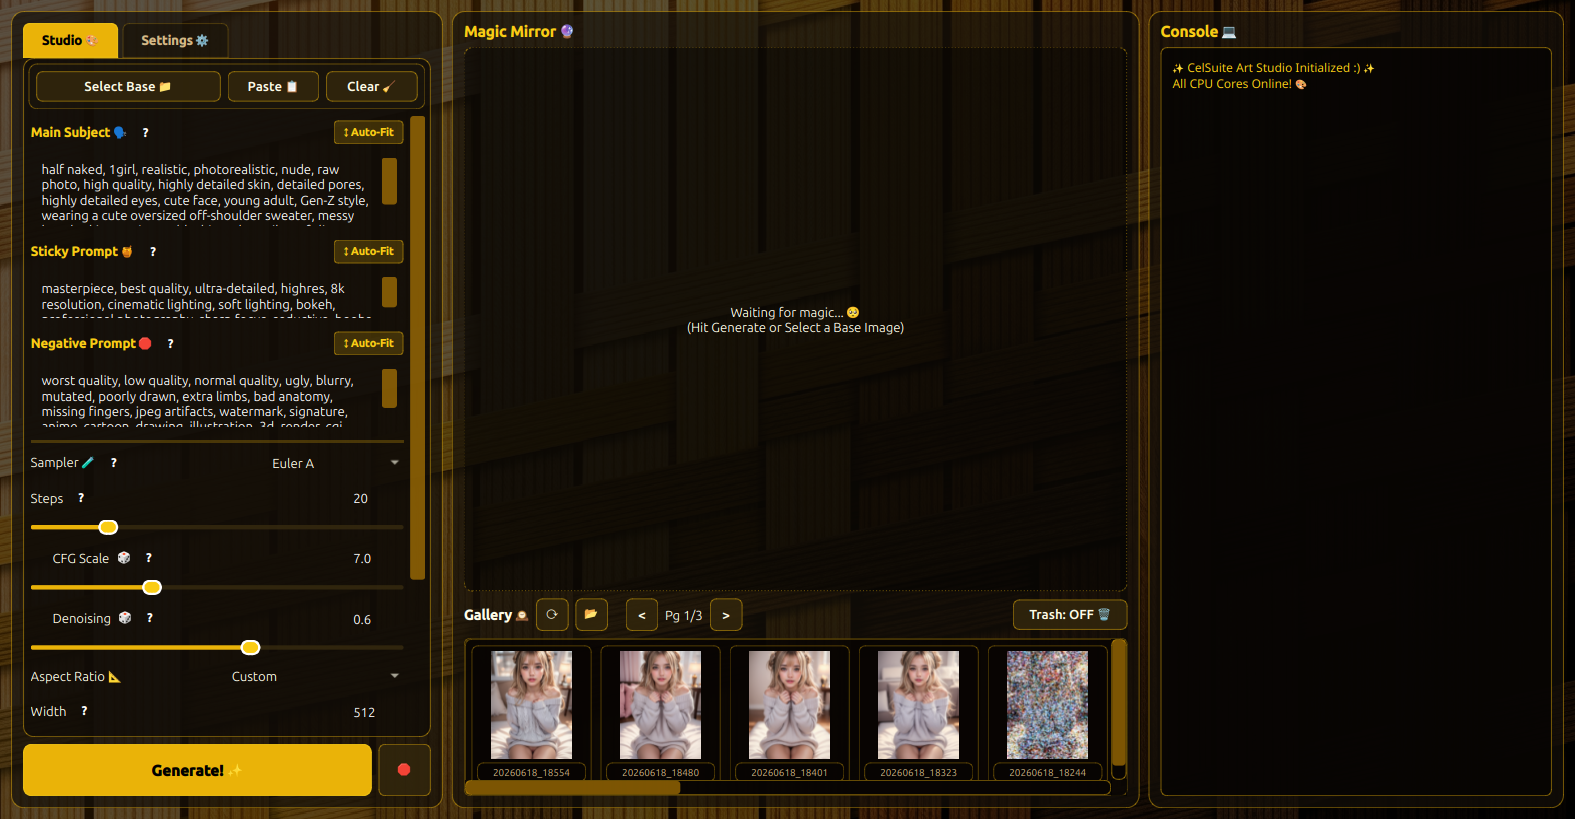
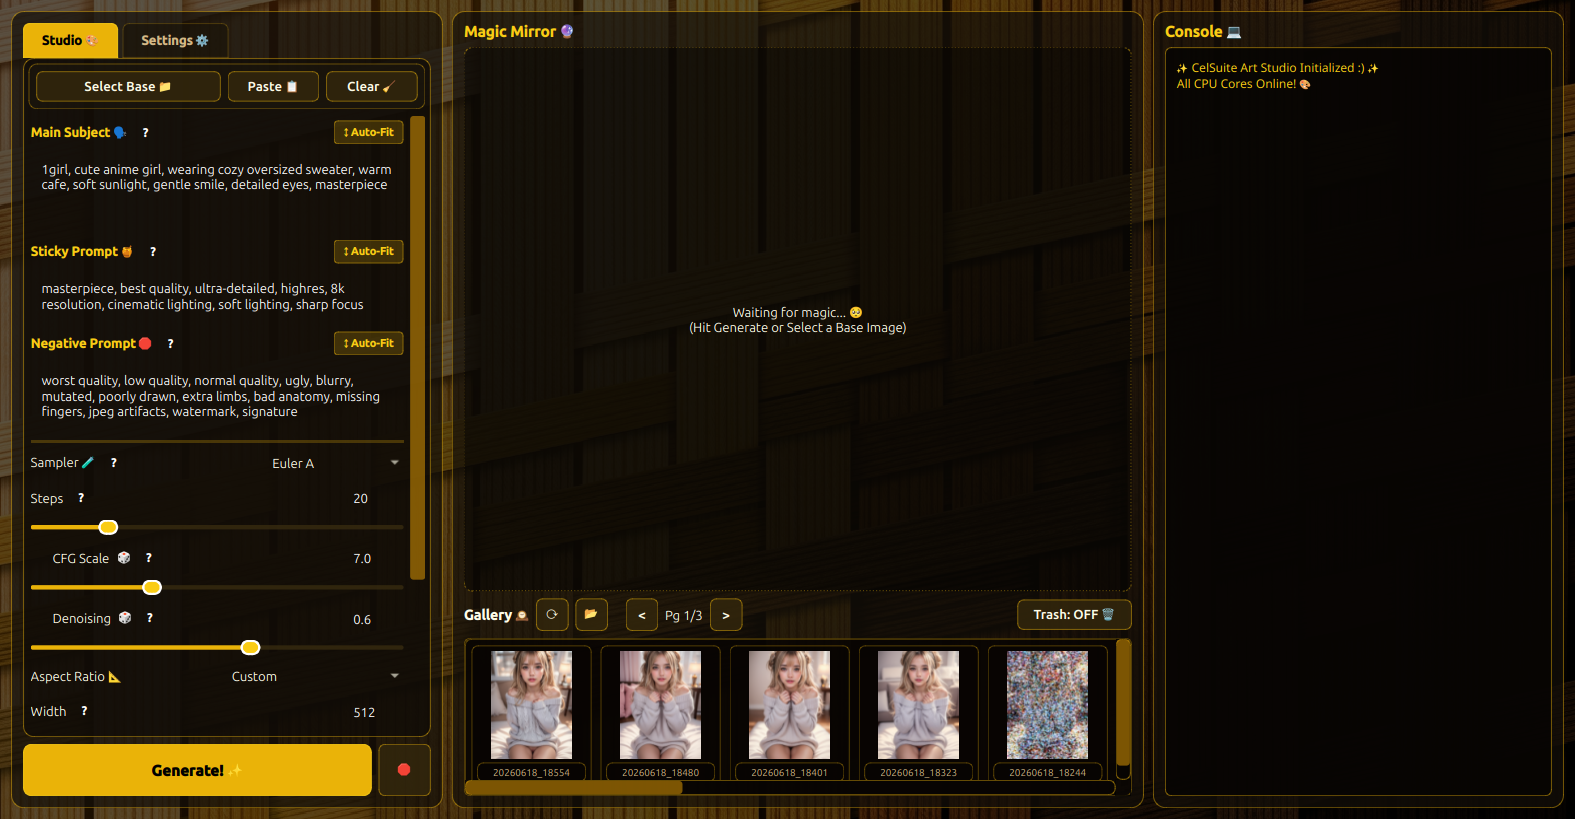
fix: SFW clean default prompts and GitHub Actions build dependencies

diff --git a/build_nuitka.py b/build_nuitka.py
@@ -12,6 +12,14 @@ import subprocess
 import zipfile
 from pathlib import Path
 
+# Fix Windows cp1252 charmap encoding crash when printing Unicode/emojis
+if sys.platform == "win32":
+    import io
+    if hasattr(sys.stdout, "buffer"):
+        sys.stdout = io.TextIOWrapper(sys.stdout.buffer, encoding="utf-8", errors="replace")
+    if hasattr(sys.stderr, "buffer"):
+        sys.stderr = io.TextIOWrapper(sys.stderr.buffer, encoding="utf-8", errors="replace")
+
 PROJECT_DIR = Path(__file__).resolve().parent
 
 # Cross-platform python executable detection (Central Linux venv or system python / Windows runner)
@@ -28,7 +36,6 @@ DIST_DIR    = PROJECT_DIR / "dist"
 APP_NAME    = "CelSuite Art Studio"
 
 # Prune unneeded standard libraries and unused Qt components to minimize binary size
-# Note: PyTorch, Diffusers, and Transformers are kept intact!
 EXCLUDE_MODULES = [
     "tkinter", "unittest", "pydoc", "doctest", "email", "http", "xmlrpc",
     "distutils", "setuptools", "pip", "pkg_resources", "curses", "idlelib",
@@ -105,7 +112,6 @@ def build(target="onefile"):
         if target == "standalone":
             standalone_folder = DIST_DIR / f"CelSuite_ArtStudio.dist"
             if not standalone_folder.exists():
-                # Fallback check for alternate Nuitka folder naming
                 candidates = list(DIST_DIR.glob("*.dist"))
                 if candidates:
                     standalone_folder = candidates[0]

diff --git a/CelAS.py b/CelAS.py
@@ -393,8 +393,8 @@ class CelStudioWindow(QMainWindow):
             "model_path": "",
             "dolphin_path": "",
             "lora_path": "",
-            "pos_prompt": "1cat, cute",
-            "sticky_prompt": "masterpiece, best quality, ultra-detailed, highres, 8k resolution, cinematic lighting",
+            "pos_prompt": "1girl, cute anime girl, wearing cozy oversized sweater, warm cafe, soft sunlight, gentle smile, detailed eyes, masterpiece",
+            "sticky_prompt": "masterpiece, best quality, ultra-detailed, highres, 8k resolution, cinematic lighting, soft lighting, sharp focus",
             "neg_prompt": default_neg,
             "use_dolphin": False,
             "use_low_ram": False,
